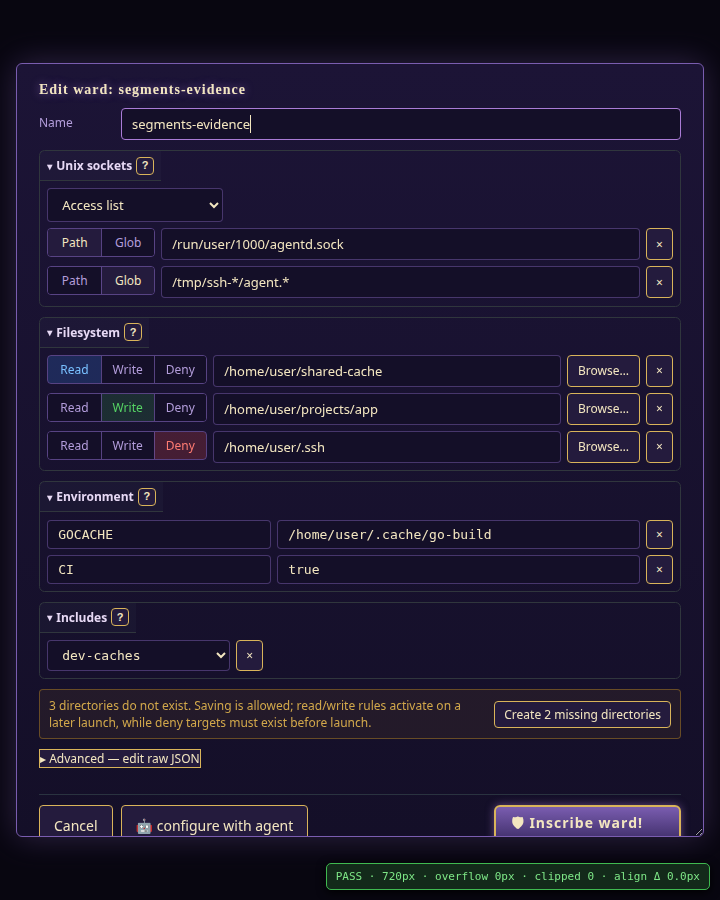
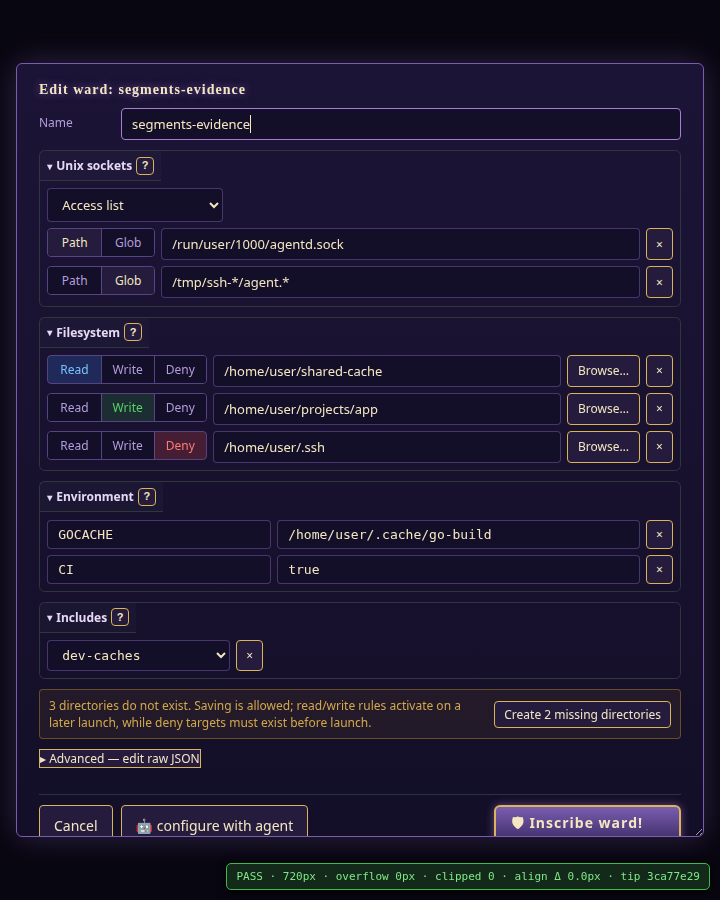
Refresh TCL-856 evidence at final tip

Changed region(s): [[0.3056, 0.9333, 0.55, 0.9956], [0.6111, 0.9644, 0.825, 0.9956], [0.8861, 0.9644, 0.9778, 0.9956]]

diff --git a/pr-evidence/tcl-856/README.md b/pr-evidence/tcl-856/README.md
@@ -1,10 +1,11 @@
 # TCL-856 Chrome evidence
 
-Production tip: `07745a8544b43ad841f7b98d4bb0c92f2209b2c4`
+Production tip: `3ca77e29618cafa7d686be5e1690d9294f8eab7e`
 
 These screenshots were rendered from the real dashboard handler with host
-Google Chrome at 1280×900 and 720×900, in regular and wizard skins. The fixture
-opens the production sandbox-profile editor with:
+Google Chrome at 1280×900 and 720×900, in regular and wizard skins, with the
+production worktree pinned to the tip above. The fixture opens the production
+sandbox-profile editor with:
 
 - one filesystem row in each Read, Write, and Deny state;
 - Path-selected and Glob-selected Unix-socket rows;
